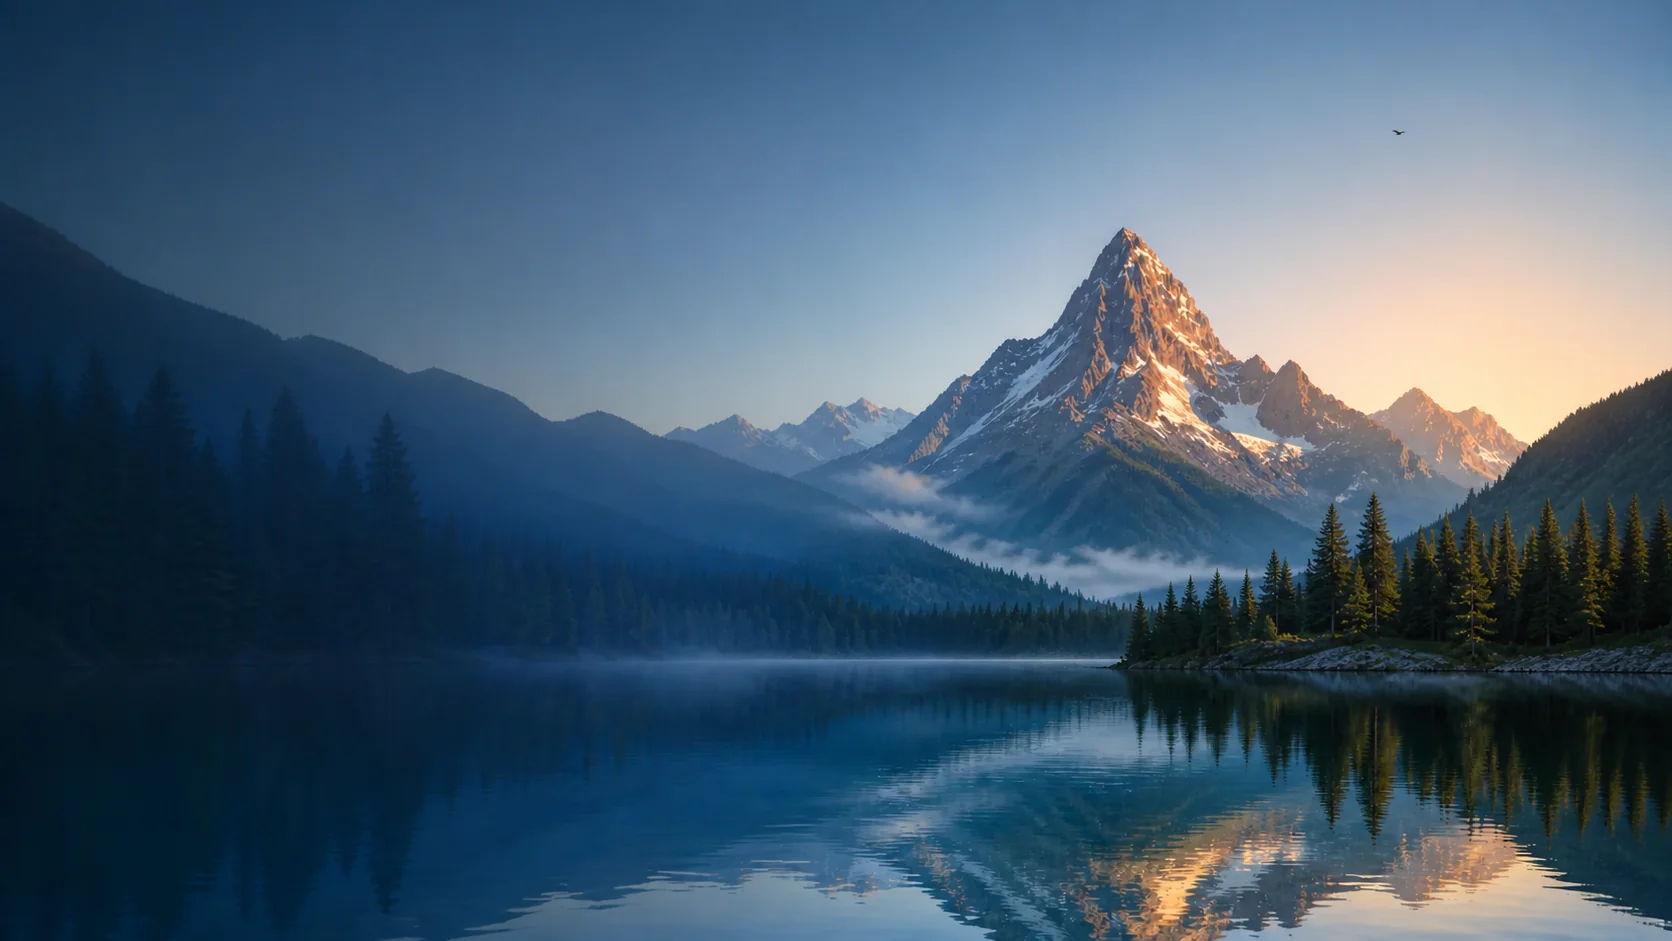
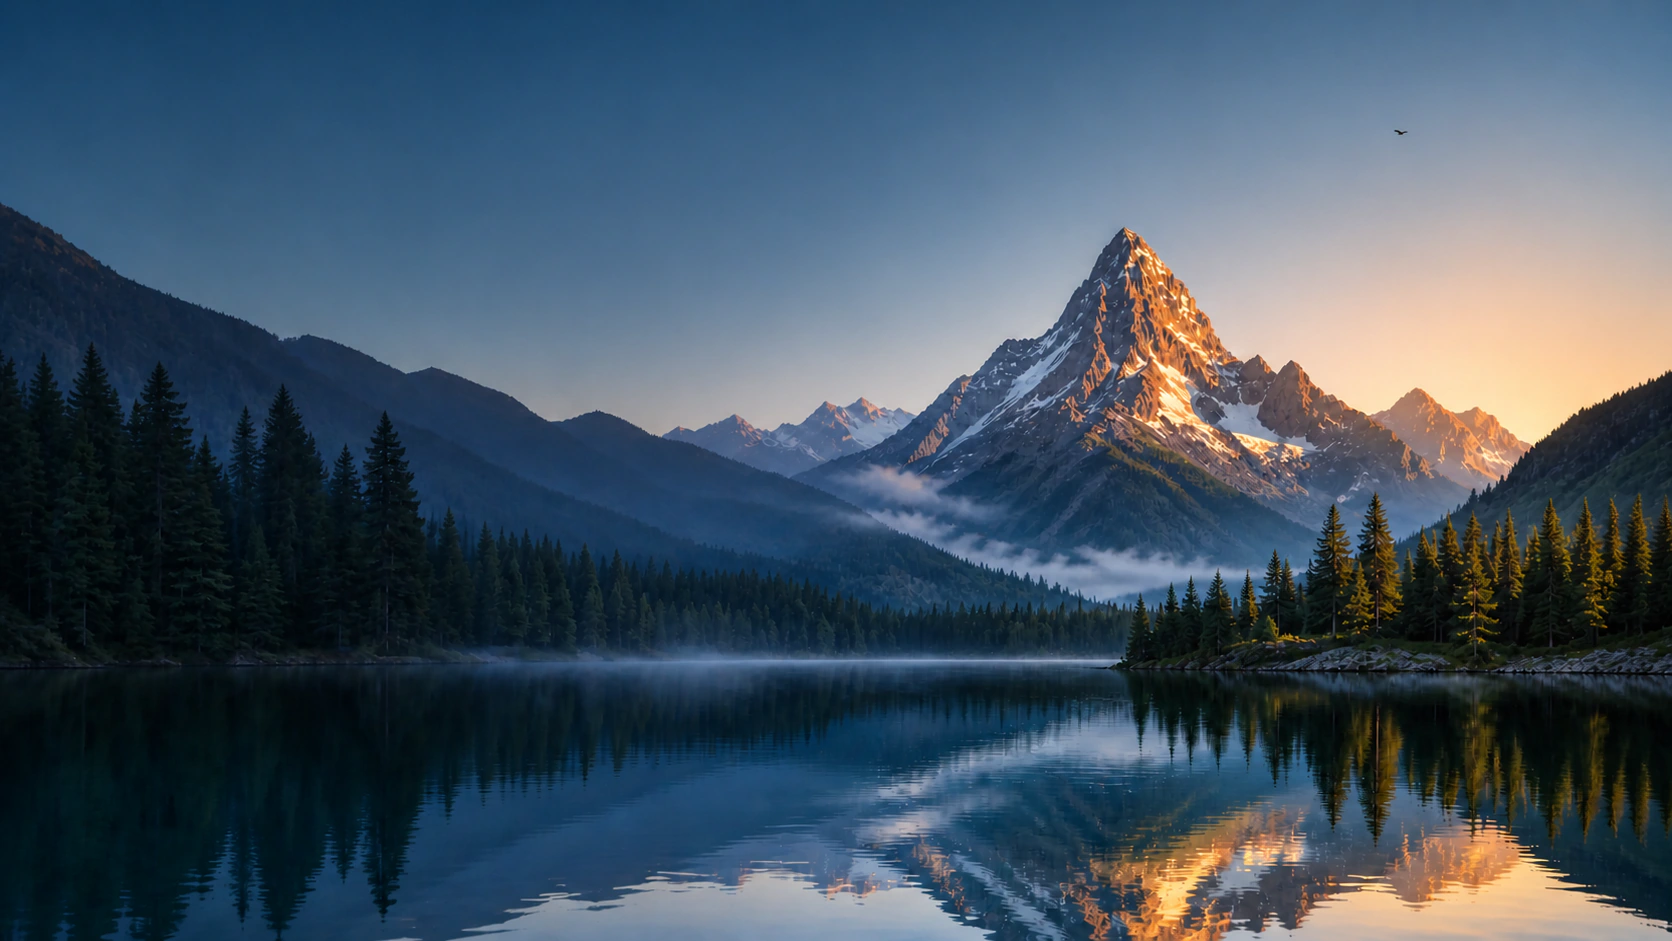
Upgrade homepage mountain hero assets

diff --git a/styles.css b/styles.css
@@ -5652,7 +5652,15 @@ summary:focus-visible {
   padding: 9.2rem 0 5.25rem;
   text-align: left;
   isolation: isolate;
-  background: url('assets/oak-emr-mountain-hero.webp') center center / cover no-repeat;
+  /* Keep a plain 1x URL fallback before the density-aware image-set(). */
+  background-image: url('assets/oak-emr-mountain-hero.webp');
+  background-image: image-set(
+    url('assets/oak-emr-mountain-hero.webp') 1x,
+    url('assets/oak-emr-mountain-hero-retina.webp') 2x
+  );
+  background-position: center 20%;
+  background-size: cover;
+  background-repeat: no-repeat;
 }
 
 .hero.home-hero::before {
@@ -5683,7 +5691,7 @@ summary:focus-visible {
 
 @media (max-width: 1050px) {
   .hero.home-hero {
-    background-position: 62% center;
+    background-position: 62% 20%;
   }
 
   .hero.home-hero::before {
@@ -5695,7 +5703,7 @@ summary:focus-visible {
   .hero.home-hero {
     min-height: auto;
     padding: 7.5rem 0 4.5rem;
-    background-position: 69% center;
+    background-position: 69% 20%;
   }
 
   .hero.home-hero::before {

diff --git a/index.html b/index.html
@@ -24,7 +24,7 @@
     <meta name="twitter:image:alt" content="Mountain landscape representing a calmer, connected medical practice workflow" />
     <link rel="icon" href="assets/logo.svg" type="image/svg+xml" />
 
-    <link rel="stylesheet" href="styles.css?v=oak-emr-20260828" />
+    <link rel="stylesheet" href="styles.css?v=oak-emr-20260828-hero-hq" />
     <link rel="preconnect" href="https://fonts.googleapis.com">
     <link rel="preconnect" href="https://fonts.gstatic.com" crossorigin>
     <link href="https://fonts.googleapis.com/css2?family=Fraunces:opsz,wght@9..144,500;9..144,700;9..144,850&family=Plus+Jakarta+Sans:wght@400;500;600;700;800&display=swap" rel="stylesheet">
